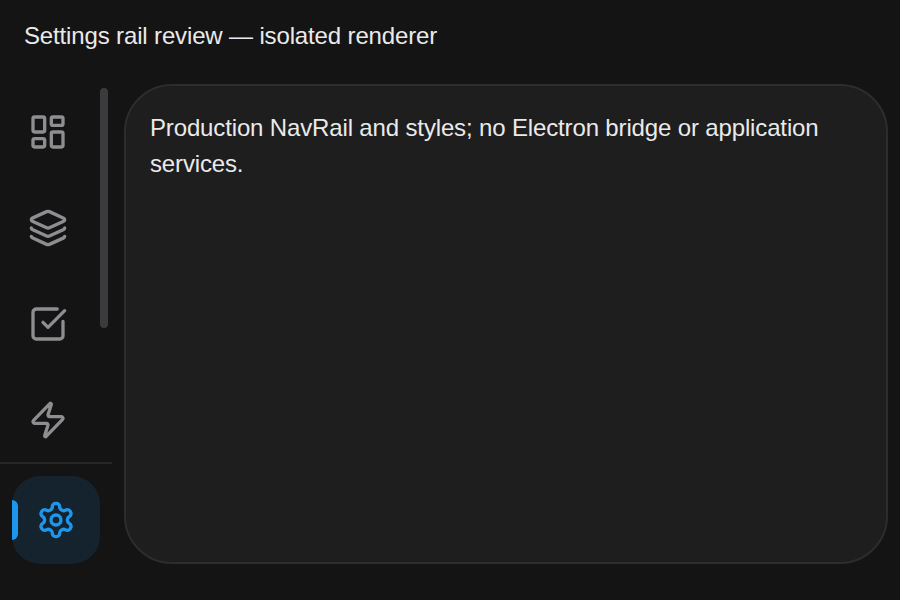
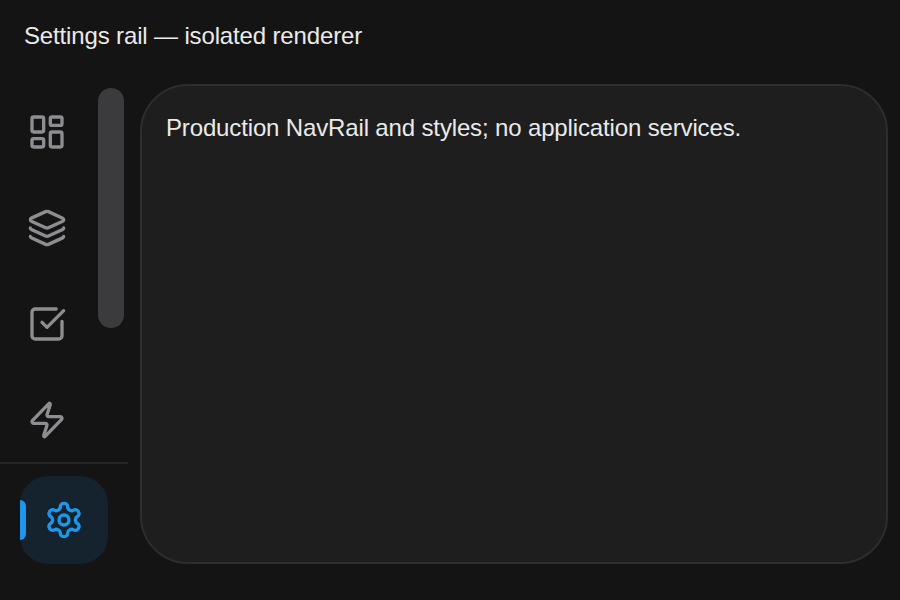
Fix navigation target clipping with classic scrollbars

diff --git a/src/renderer/src/components/layout/NavRail.test.tsx b/src/renderer/src/components/layout/NavRail.test.tsx
@@ -10,10 +10,9 @@ vi.mock('@/lib/activity/use-activity', () => ({
 
 afterEach(() => {
   cleanup()
-  document.documentElement.classList.remove('dark')
 })
 beforeEach(() => {
-  useUIStore.setState({ sidebarView: 'dashboard', activeModal: null, sidebarCollapsed: false })
+  useUIStore.setState({ sidebarView: 'dashboard', activeModal: null })
 })
 
 describe('NavRail Settings', () => {
@@ -88,18 +87,14 @@ describe('NavRail Settings', () => {
     expect(screen.queryByRole('tooltip')).toBeNull()
   })
 
-  it.each([
-    ['light', false], ['light', true], ['dark', false], ['dark', true]
-  ] as const)('preserves the rail groups and focusable targets in %s theme, sidebar collapsed=%s', (theme, sidebarCollapsed) => {
-    document.documentElement.classList.toggle('dark', theme === 'dark')
-    useUIStore.setState({ sidebarCollapsed, sidebarView: 'tasks' })
+  it('keeps the rail groups and full-size focusable targets', () => {
     render(<NavRail />)
     const nav = screen.getByRole('navigation', { name: 'Primary' })
     const groups = within(nav).getAllByRole('group')
     expect(groups.map((group) => group.getAttribute('aria-label'))).toEqual(['Main views', 'Settings'])
     // DOM fallback: happy-dom has no layout engine. The isolated Electron
-    // review checks the compiled CSS at real window sizes and zoom factors.
-    expect(nav).toHaveClass('min-h-0', 'flex-col', 'w-14')
+    // layout regression checks real scrollports, including 15/17px scrollbars.
+    expect(nav).toHaveClass('min-h-0', 'flex-col', 'w-16')
     expect(groups[0]).toHaveClass('min-h-0', 'flex-1', 'overflow-y-auto')
     expect(groups[1]).toHaveClass('mt-auto', 'shrink-0')
     const focusable = nav.querySelectorAll('button, a[href], input, select, textarea, [tabindex]')

diff --git a/src/renderer/src/components/layout/NavRail.tsx b/src/renderer/src/components/layout/NavRail.tsx
@@ -67,7 +67,7 @@ function RailButton({ name, active, shortcut, onClick, children }: {
   )
 }
 
-/** Primary navigation — leaves room for 44px targets plus the main group's scrollbar. */
+/** 64px accommodates a 44px target plus classic scrollbars up to 17px wide. */
 export function NavRail() {
   const sidebarView = useUIStore((s) => s.sidebarView)
   const setSidebarView = useUIStore((s) => s.setSidebarView)
@@ -80,7 +80,7 @@ export function NavRail() {
   const showCommanderState = !isQuietActivity(commander)
 
   return (
-    <nav aria-label="Primary" className="ui-scale app-chrome no-drag flex min-h-0 w-14 flex-shrink-0 flex-col items-center bg-background py-1.5">
+    <nav aria-label="Primary" className="ui-scale app-chrome no-drag flex min-h-0 w-16 flex-shrink-0 flex-col items-center bg-background py-1.5">
       <div role="group" aria-label="Main views" className="flex min-h-0 w-full flex-1 flex-col items-center gap-1 overflow-y-auto py-0.5">
         {NAV_ITEMS.map(({ key, label, icon: Icon }, i) => {
           const active = sidebarView === key && activeModal !== 'settings'

diff --git a/scripts/nav-rail-layout/fixture.tsx b/scripts/nav-rail-layout/fixture.tsx
@@ -1,0 +1,15 @@
+import React from 'react'
+import { createRoot } from 'react-dom/client'
+import { NavRail } from '../../src/renderer/src/components/layout/NavRail'
+import './fixture.css'
+
+createRoot(document.getElementById('root')!).render(<>
+  <div className="ui-scale bg-background h-9 shrink-0 flex items-center px-3">Settings rail — isolated renderer</div>
+  <div className="app-chrome-field flex flex-1 min-h-0 overflow-hidden bg-background">
+    <NavRail />
+    <main className="flex-1 min-w-0 rounded-2xl border border-border bg-card m-2 p-4">
+      Production NavRail and styles; no application services.
+    </main>
+  </div>
+  <div className="bg-background shrink-0 h-4" />
+</>)

diff --git a/scripts/nav-rail-layout/index.html b/scripts/nav-rail-layout/index.html
@@ -1,0 +1,8 @@
+<!doctype html>
+<html><head><meta charset="UTF-8"><title>Navigation rail layout regression</title></head>
+<body><div id="root"></div>
+<script>
+// Inert event subscriptions: the fixture never starts application services.
+window.electronAPI = new Proxy({}, {get: (_, key) => key.startsWith('on') ? () => () => {} : undefined})
+</script>
+<script type="module" src="/fixture.tsx"></script></body></html>

diff --git a/scripts/nav-rail-layout/fixture.css b/scripts/nav-rail-layout/fixture.css
@@ -1,0 +1,3 @@
+@import '../../src/renderer/src/styles/globals.css';
+@source '../../src/renderer/src';
+@source './fixture.tsx';

diff --git a/scripts/nav-rail-layout/README.md b/scripts/nav-rail-layout/README.md
@@ -1,0 +1,28 @@
+# Navigation rail layout regression
+
+Run `pnpm test:nav-rail` with a graphical display, or
+`xvfb-run --auto-servernum pnpm test:nav-rail` on headless Linux (as in Verify).
+This uses the existing Electron, Vite and Tailwind dependencies. It loads only
+production NavRail and CSS, with inert event subscriptions, no app backend,
+a temporary Electron profile and blocked external requests.
+
+The 96 distinct layouts cover light/dark, 1200×900/900×600 physical window
+sizes, 100/125/150/200% Electron zoom, normal/doubled text, and forced 8/15/17px
+scrollbars. Sidebar collapse is not a dimension: this fixture does not mount
+the adjacent sidebar, and the rail does not consume its collapse state.
+
+Every row measures `clientWidth`, `scrollWidth`, the actual consumed scrollbar
+width and target bounds. Overflowing main groups must consume exactly the
+requested scrollbar width; all main buttons must fit wholly within the actual
+client scrollport and remain at least 44×44 CSS pixels. It also checks pinning,
+scroll separation, real Tab/Enter/Escape, focused/unfocused pointer tooltips,
+focus contrast in both themes and Chromium navigation/group semantics.
+The layout test fails on the previous 56px rail with both 15px and 17px
+scrollbars. DOM tests separately check state transitions and alternate entries.
+
+JSON measurements and four screenshots are written to a temporary output
+directory reported at exit (`NAV_RAIL_OUTPUT` can select a directory). The
+screenshots show 17px scrollbars and are review evidence, not snapshot baselines.
+Text preferences are emulated with root/chrome text sizing; the fixture does
+not certify native OS text preferences, external screen readers or the full
+application/sidebar integration.
